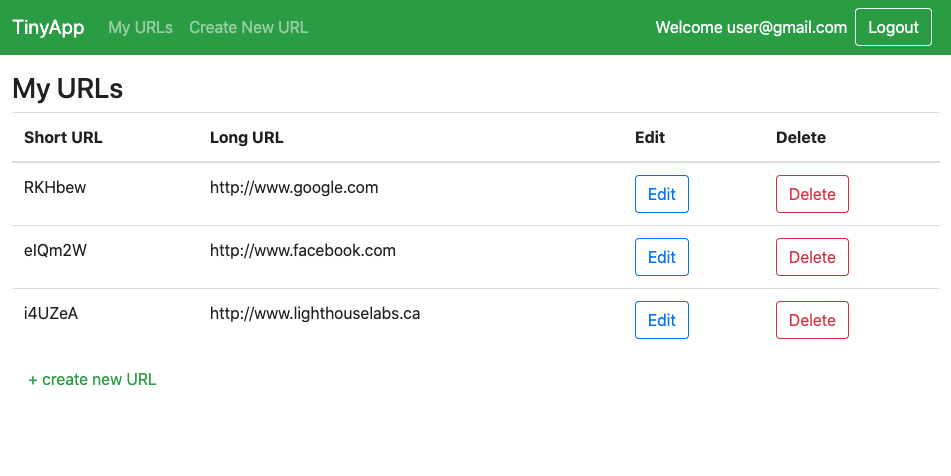
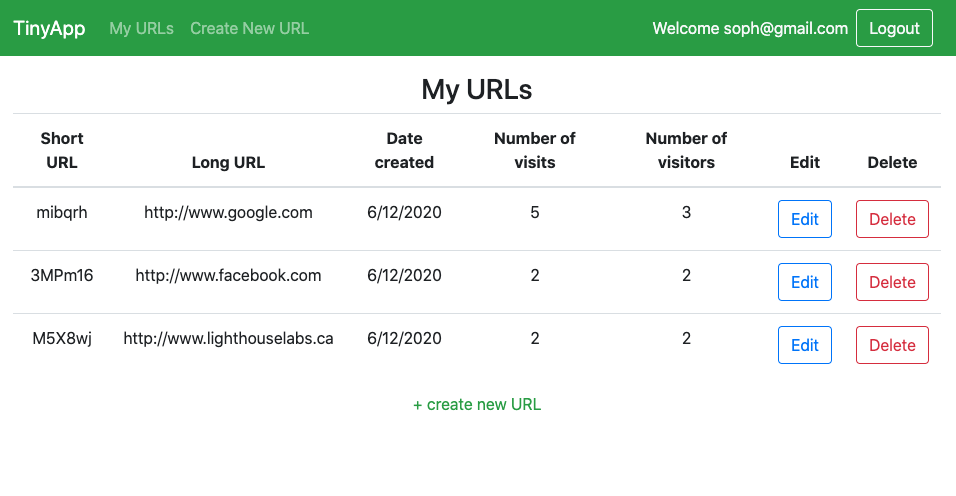
Added updated screen shots and worked on the README

diff --git a/README.md b/README.md
@@ -4,13 +4,13 @@ TinyApp is a full stack web application built with Node and Express that allows 
 
 ## Final Product
 This is the URLs page a logged in user might see. Only the urls create by the current logged in user are visible.
-!["Screenshot of URLs page"](https://github.com/sophdubs/tinyapp/blob/master/docs/urls-page.png?raw=true)
+!["Screenshot of URLs page"]
 
 This is the register form a user might see. It is very similar to the login page.
-!["Screenshot of Register form"](https://github.com/sophdubs/tinyapp/blob/master/docs/register.png?raw=true)
+!["Screenshot of Register form"]
 
 This is the form a user will see when creating a new tiny URL.
-!["Screenshot of new URL form"](https://github.com/sophdubs/tinyapp/blob/master/docs/new-url.png?raw=true)
+!["Screenshot of new URL form"]
 
 ## Dependencies
 
@@ -20,14 +20,21 @@ This is the form a user will see when creating a new tiny URL.
 - bcrypt
 - body-parser
 - cookie-session
+- method-override
 
 ## Getting Started
 
 - Install all dependencies (using the `npm install` command).
 - Run the development web server using the `node express_server.js` command.
 
-## Project Implementation Details
-- This project required us to build an Express server and handle HTTP requests according to RESTful conventions. 
+## Project Stack
+- Web Server: Node JS
+- Middleware: Express
+- Template Engine: EJS
+- Database: In memory object
+
+## Customizations
+- This project required us to build an Express server and handle HTTP requests according to RESTful conventions. For this, I had to use method-override to be able to use the PUT and DELETE routes. 
 - I was able to ensure user security by hashing the passwords before storing them in the user database as well as encrypting the cookies.
 - I decided to organise my project directory according to MVC conventions:
   - All data can be found in the models directory
@@ -36,3 +43,9 @@ This is the form a user will see when creating a new tiny URL.
   - All helper functions have been factored out to their own file and fully tested. 
 - I created a custom middleware, ensureCredentialsPresent, to handle incomming POST '/login' and POST '/register' requests. This middleware ensures the user filled out both the email and password fields before logging in or registering. If they have not, a page explaining the missing credentials is rendered. 
 - I also played around with the style to keep the colors and forms more consistent. 
+- I made a few additional views (not required by the project specs) to display error messages and analytics details.
+
+
+## Known Issues
+- All data is stored in a local object. Therefore, data is non-persistant. Every time the server is restarted, all users, urls and associated analytics is wiped clean. 
+- When running the program from my vagrant machine, the time stamp seems to be off by a few hours. When running on my local machine, this issue is not present. 
